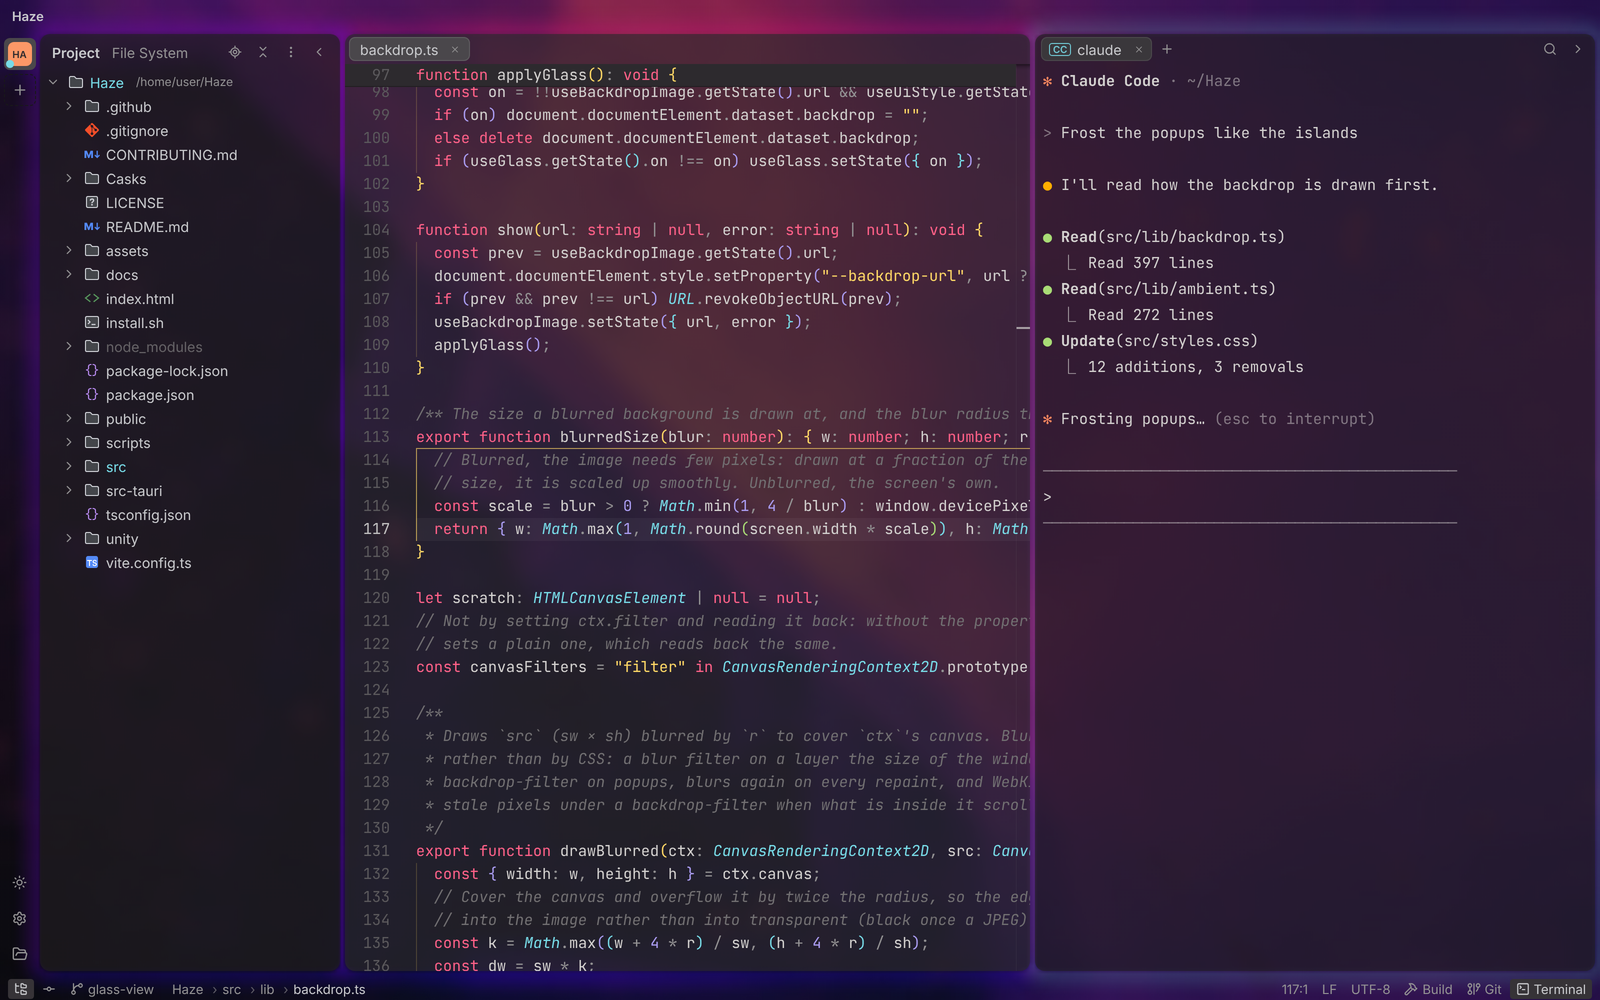
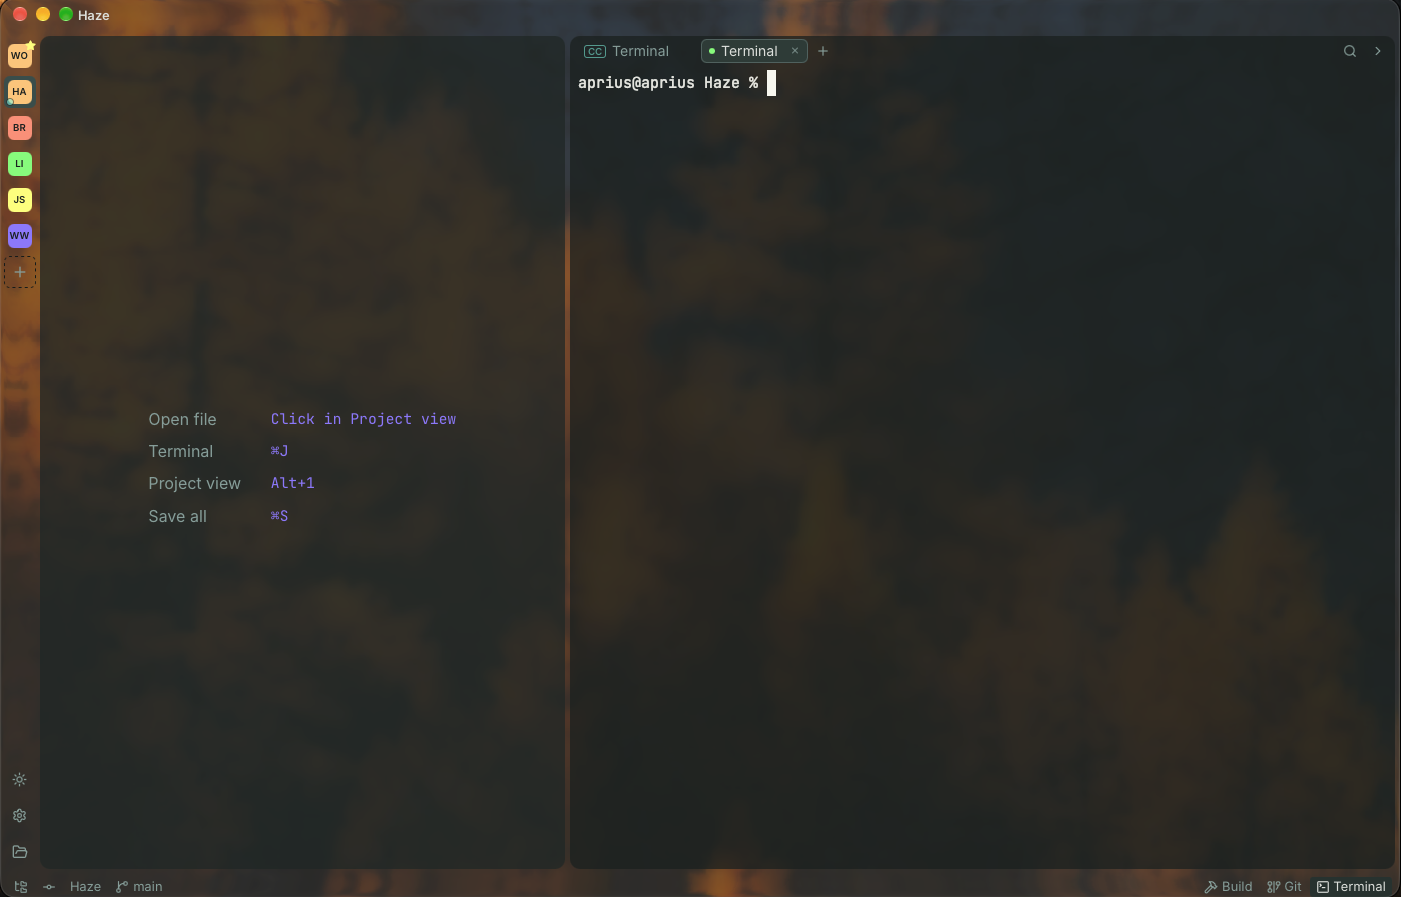
Update docs

diff --git a/docs/BACKGROUND.md b/docs/BACKGROUND.md
@@ -22,6 +22,8 @@ A video stops while the window is hidden or covered, and with **Pause in backgro
 - Commit and Diff windows of their own are glass too.
 - The glass follows the theme, dark or light, not the system's appearance.
 
+![Glass on macOS: the desktop blurred behind the Islands layout](glass-view.png)
+
 ## Rotating from a folder
 
 **Folder** (next to **None** and **Image or video**) changes the background by itself, picking another image or video from a folder at the interval set (or only when day turns to night and back):

diff --git a/README.md b/README.md
@@ -132,7 +132,7 @@ Put an image or a video behind the Islands layout: the panels and popups are tin
 [Docs →](docs/BACKGROUND.md)
 
 </td>
-<td width="50%"><img src="docs/glass-view.png" alt="Glass view over a background image" width="100%"></td>
+<td width="50%"><img src="docs/glass-view.png" alt="Glass: the desktop showing through the Islands layout, blurred by the system" width="100%"></td>
 </tr>
 </table>
 
